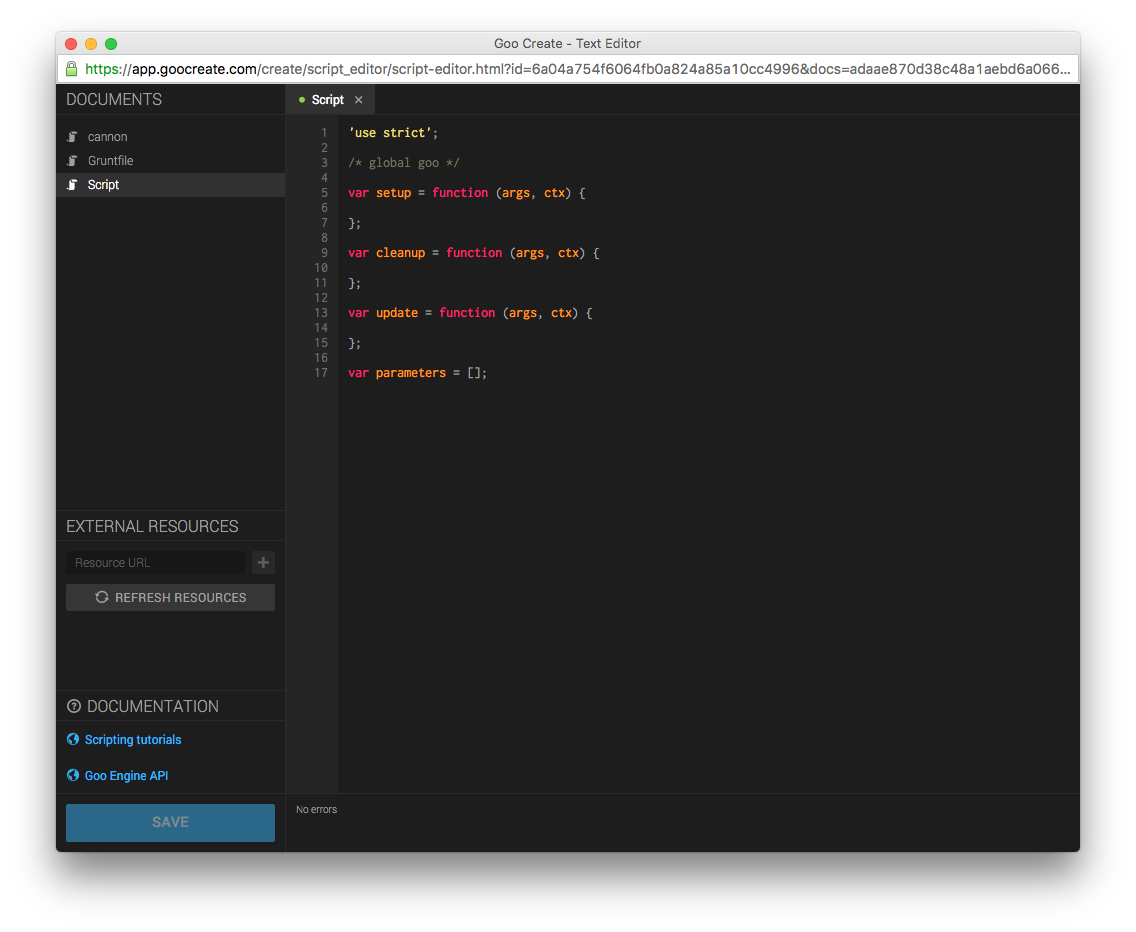
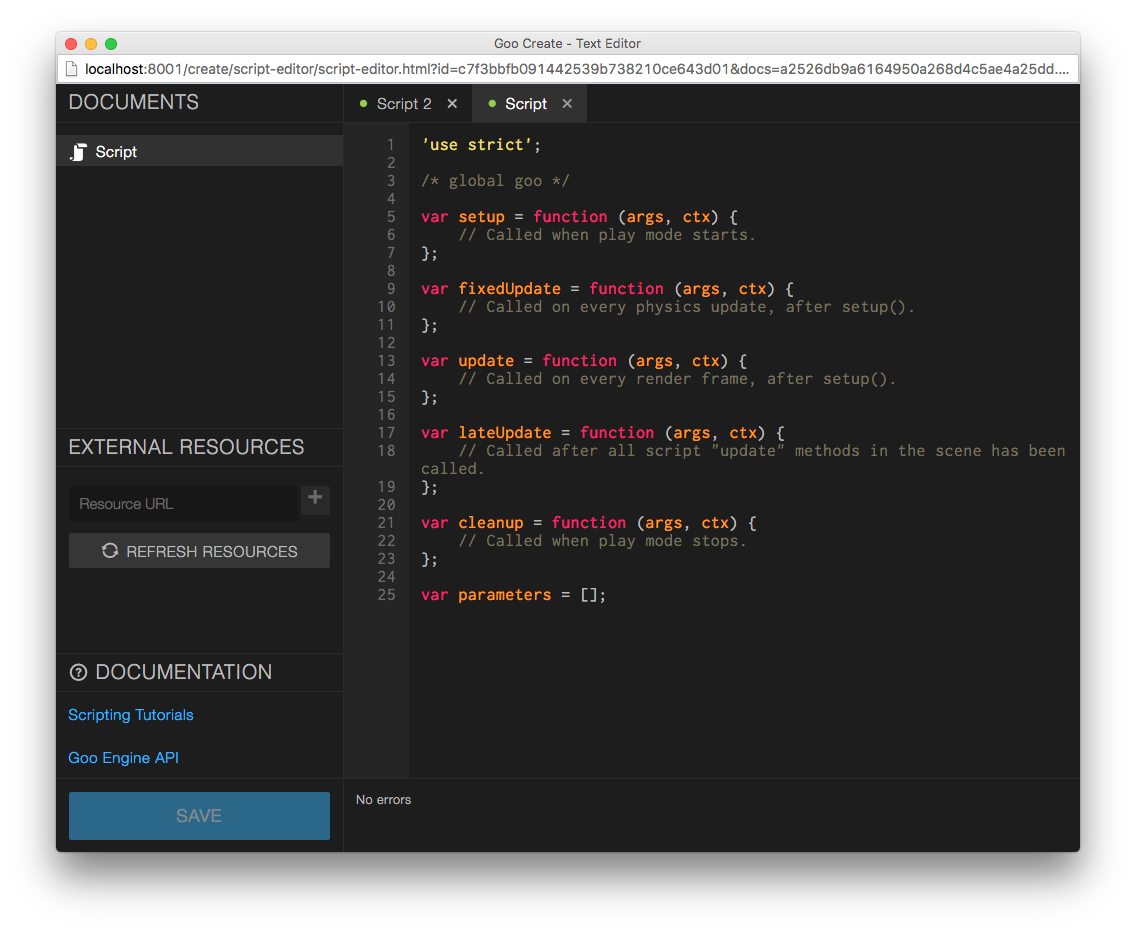
added new script methods to Script Anatomy, add JSON parameter type to the list

diff --git a/manual/scripting/anatomy/index.md b/manual/scripting/anatomy/index.md
@@ -12,18 +12,26 @@ When you create a new script, and open it in the script editor, you get somethin
 /* global goo */
 
 var setup = function (args, ctx) {
-    // Will be called when the script is attached to an entity, or you press Play in Create.
+    // Will be called when the script is attached to an entity, or when you press Play in Create.
+};
+
+var fixedUpdate = function (args, ctx) {
+    // Will be called once per physics update.
+};
+
+var update = function (args, ctx) {
+    // Will be called once per render frame, if the script is set up.
+};
+
+var lateUpdate = function (args, ctx) {
+    // Will be called after all script "update" methods in the scene has been run.
 };
 
 var cleanup = function (args, ctx) {
     // Will be called when the script component is removed from the entity, or when you press *Stop* in Create.
 };
 
-var update = function (args, ctx) {
-    // Will be called once per render frame, after the script was set up.
-};
-
-// Script parameter definitions
+// Script parameter definitions, will show in the script panel
 var parameters = [];
 {% endhighlight %}
 
@@ -149,7 +157,7 @@ Parameters need to be defined on a specific format. It is mentioned in the comme
 *   **min [number]** - Used with *int* or *float* types.
 *   **max [number]** - Used with *int* or *float* types.
 *   **precision [number]** - Number of significant digits for *float* values.
-*   **scale [number]** - Used with *slider* control type.
+*   **decimal [number]** - Number of fractional digits for *float* values.
 *   **exponential [boolean]** - Used with *slider* control type.
 
 ### Parameter Types
@@ -163,7 +171,7 @@ The type property must be set to one of a few predefined strings, each correspon
 *   **vec2** - An array of 2 numbers.
 *   **vec3** - An array of 3 numbers.
 *   **vec4** - An array of 4 numbers.
-*   **texture, sound, entity, camera, animation** - Direct references to different types of objects, controlled by drag-and-drop areas in the script panel.
+*   **texture, sound, entity, camera, animation, json** - Direct references to different types of objects, controlled by drag-and-drop areas in the script panel.
 
 ### Parameter Controls
 
@@ -171,7 +179,7 @@ Different types can have different controls which in turn have several different
 
 #### control: "slider"
 
-A slider for numbers. The specific options _scale_ and _exponential_ can be used with it, in addition to the number options _min,_ _max_ and _precision_.
+A slider for numbers. The specific options _decimal_ and _exponential_ can be used with it, in addition to the number options _min,_ _max_ and _precision_.
 
 {% highlight js %}{
     key: "magnitude",
